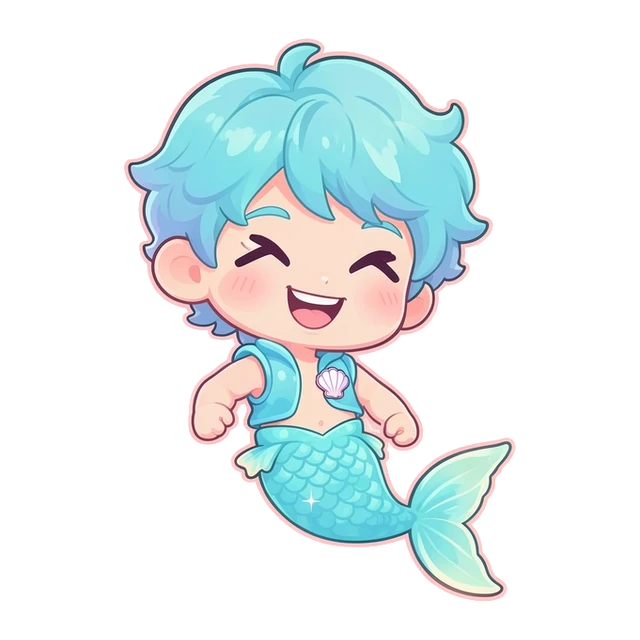
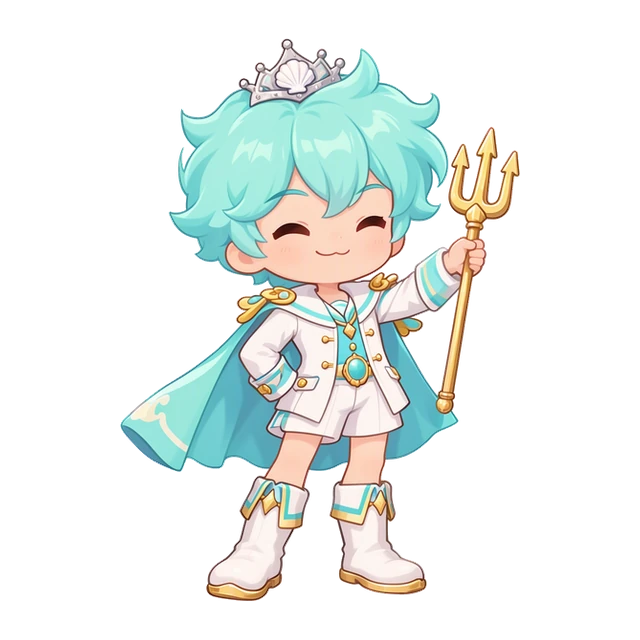
プリンス版：カイ（うみの おうじ）の 絵を 差し替え
- 人魚の しっぽ・はだかの 上半身を やめ、足の ある 立ち絵に（セーラー風の 白い 上着・水色の マント・貝の ティアラ・金の トライデント）
- 喜ぶ：もとの 絵（目を とじた 笑顔）を そのまま。ふつう・困った：その 絵を もとに flux-klein で 表情だけ 変えた
- process.py：うで・トライデント・マントに かこまれた すきまの 白を、カイの 3まいだけ 場所を きめて 抜く（HOLE_BOXES）
- moss_prince.py：カイは もとの 絵（source）から 作る ように

diff --git a/tools/art/moss_prince.py b/tools/art/moss_prince.py
@@ -22,6 +22,7 @@
   そのあと  tools/art/.venv/bin/python tools/art/process.py chars
     python3 tools/art/moss_prince.py chars                   # 9 枚(ある 絵は とばす)
     python3 tools/art/moss_prince.py chars witch_idle        # その 1 枚だけ 作りなおす(idle を かえたら happy・oops も)
+    python3 tools/art/moss_prince.py chars mermaid_happy     # カイ：もとの 絵(source)を happy に し、idle・oops を 表情の 編集で 作る
 
   妖精：{mint, ramune, poppy, peta} → art-raw/fairy/fairy-{id}_prince.png(1024px)
   元の 絵(~/moss-mcp/outputs/20261120_001〜004)の さいごの プロンプトと seed に HEROIC と マントか たてを 1つ たす(顔は 同じ)。
@@ -107,10 +108,13 @@ CHARS = {
         "keep": "lavender hair, wizard hat, robe, cape and staff",
     },
     "mermaid": {
-        "seed": 8202,
-        "subject": ("A cute chibi little merman boy with short wavy aqua blue hair and a small seashell badge on his chest, wearing a turquoise vest, "
-                    "with a turquoise mint fish tail. Big round plum-colored eyes, pink cheeks. Full body including the whole tail, facing front"),
-        "keep": "aqua hair, seashell badge, turquoise vest and turquoise mint tail",
+        # 2026-11-21 差し替え：人魚の しっぽ・はだかの 上半身を やめ、足の ある 立ち絵に。
+        # 元の 絵は ~/moss-mcp/outputs/20261120_005.png（目を とじた 笑顔）→ そのまま happy に つかい、
+        # idle・oops は その 絵を もとに flux-klein で 表情だけ かえる（generate は しない）
+        "source": "~/moss-mcp/outputs/20261120_005.png",
+        "source_mood": "happy",
+        "keep": ("fluffy aqua hair, silver seashell tiara, white sailor-style jacket with gold buttons, turquoise cape, "
+                 "white shorts, white boots, gold trident, hand on hip, big round plum-colored eyes"),
     },
     "princess": {
         "seed": 8303,
@@ -120,6 +124,9 @@ CHARS = {
         "keep": "blonde hair, gold crown, white prince jacket and pink cape",
     },
 }
+IDLE = ("Keep the character, {keep}, pose, outline style and background exactly unchanged. Change only the facial expression: "
+        "open both eyes into big round plum-colored eyes with determined slightly sharp eyebrows, and a confident closed-mouth smile. "
+        "No sweat drops, no tears, no water drops anywhere. Keep the pink cheeks.")
 HAPPY = ("Keep the character, {keep}, pose, outline style and background exactly unchanged. Change only the facial expression: "
          "make both eyes into happy closed upturned arcs (like ^ ^), and make the mouth a wide open smile. "
          "No sweat drops, no tears, no water drops anywhere. Keep the pink cheeks.")
@@ -158,10 +165,20 @@ def char_idle(api, cid, soft):
     print(f"ok   {out} seed={seed} {time.time() - t0:.0f}s", flush=True)
 
 
+def char_source(cid, mood):
+    """もとの 絵(CHARS[cid]["source"])を そのまま その 表情に つかう"""
+    out, src = f"{cid}_{mood}_prince", os.path.expanduser(CHARS[cid]["source"])
+    buf = io.BytesIO(); Image.open(src).convert("RGB").save(buf, "PNG")
+    G.save_raw(f"chars/{out}", buf.getvalue(), 640)
+    log_char(out, {"mode": "source", "source": CHARS[cid]["source"]})
+    print(f"ok   {out} (もとの 絵)", flush=True)
+
+
 def char_edit(api, cid, mood):
     t0, out = time.time(), f"{cid}_{mood}_prince"
-    prompt = (HAPPY if mood == "happy" else OOPS).format(keep=CHARS[cid]["keep"])
-    source = G.ORIG / "chars" / f"{cid}_idle_prince.png"
+    prompt = {"idle": IDLE, "happy": HAPPY, "oops": OOPS}[mood].format(keep=CHARS[cid]["keep"])
+    base = CHARS[cid].get("source_mood", "idle")
+    source = G.ORIG / "chars" / f"{cid}_{base}_prince.png"
     conv = api.call("POST", "/api/images/conversations")["conversation_id"]
     buf = io.BytesIO(); Image.open(source).convert("RGB").save(buf, "PNG")
     image = api.call("POST", f"/api/images/attachments?conversation_id={conv}", body=buf.getvalue(), content_type="image/png")
@@ -169,7 +186,7 @@ def char_edit(api, cid, mood):
         "prompt": prompt, "kind": "image", "backend": "flux-klein", "prompt_mode": "direct",
         "conversation_id": conv, "reference_image_id": image["id"], "preview_only": False})
     G.save_raw(f"chars/{out}", api.result_png(job["job_id"]), 640)
-    log_char(out, {"mode": "edit", "source": f"{cid}_idle_prince", "prompt": prompt, "job": job["job_id"], "sec": round(time.time() - t0, 1)})
+    log_char(out, {"mode": "edit", "source": f"{cid}_{base}_prince", "prompt": prompt, "job": job["job_id"], "sec": round(time.time() - t0, 1)})
     print(f"ok   {out} {time.time() - t0:.0f}s", flush=True)
 
 
@@ -181,9 +198,12 @@ def chars(args):
     if named:
         for n in named:
             cid, mood = n.split("_")
-            todo += [(cid, "idle"), (cid, "happy"), (cid, "oops")] if mood == "idle" else [(cid, mood)]
+            first = CHARS[cid].get("source_mood", "idle")
+            rest = [m for m in ("idle", "happy", "oops") if m != first]
+            todo += [(cid, first)] + [(cid, m) for m in rest] if mood == first else [(cid, mood)]
     else:
-        todo = [(c, "idle") for c in CHARS] + [(c, m) for m in ("happy", "oops") for c in CHARS]   # idle → 表情（MOSS と Klein の 入れかえ 1かい）
+        first = {c: CHARS[c].get("source_mood", "idle") for c in CHARS}
+        todo = [(c, first[c]) for c in CHARS] + [(c, m) for m in ("idle", "happy", "oops") for c in CHARS if m != first[c]]   # idle → 表情（MOSS と Klein の 入れかえ 1かい）
     for cid, mood in todo:
         assert cid in CHARS and mood in ("idle", "happy", "oops"), (cid, mood)
         out = f"{cid}_{mood}_prince"
@@ -191,7 +211,12 @@ def chars(args):
             print(f"skip {out} (ある)")
             continue
         try:
-            char_idle(api, cid, soft) if mood == "idle" else char_edit(api, cid, mood)
+            if mood == CHARS[cid].get("source_mood"):
+                char_source(cid, mood)
+            elif mood == "idle" and "source" not in CHARS[cid]:
+                char_idle(api, cid, soft)
+            else:
+                char_edit(api, cid, mood)
         except DailyLimit as err:
             sys.exit(f"上限に 当たったので 止めます({out} の まえ): {err}")
 

diff --git a/tools/art/process.py b/tools/art/process.py
@@ -30,6 +30,9 @@ BG_NEAR = 26.0      # この距離までは背景とみなす(囲まれた穴は
 # フォルダごとの BG_NEAR。ドラゴン(MOSS-Image)は 足もとに うすい灰色の かげが 出るので 広めに 抜く
 # (太い りんかく線で 止まるので、白っぽい ひかりドラゴンの 体は のこる)
 BG_NEAR_BY_FOLDER = {"dragons": 60.0}
+# キャラは 囲まれた すきまを ふだんは 抜かない(白い リボンなどが 消える)。そこで 絵ごとに 場所(わりあい：上, 下, 左, 右)を きめて、
+# その 中から 背景色に ごく近い 面だけを 抜く。カイ(プリンス版)：うでと トライデントと マントの あいだ
+HOLE_BOXES = {f"chars/mermaid_{m}_prince": (0.40, 0.62, 0.60, 0.74) for m in ("idle", "happy", "oops")}
 EDGE_FULL = 70.0    # ふち 2px で、これ以上はなれた色は完全に不透明
 MARGIN = 0.06       # 仕上がりの余白(1 辺あたり)
 WEBP_QUALITY = 90
@@ -64,7 +67,7 @@ def fill_touching(candidate, seed):
         region = bigger
 
 
-def cut_out(rgb, holes=True, bg_near=BG_NEAR):
+def cut_out(rgb, holes=True, bg_near=BG_NEAR, hole_box=None):
     """(RGBA の配列, 問題の一覧) を返す。"""
     pixels = rgb.astype(np.float32)
     h, w, _ = pixels.shape
@@ -80,6 +83,13 @@ def cut_out(rgb, holes=True, bg_near=BG_NEAR):
         tight = (distance < BG_NEAR / 2) & ~background
         core = ~grow(~tight, max(2, round(min(h, w) * 0.012)))
         background |= fill_touching(tight, core)
+    elif hole_box:
+        top, bottom, left, right = hole_box
+        tight = (distance < BG_NEAR / 2) & ~background
+        core = ~grow(~tight, max(2, round(min(h, w) * 0.012)))
+        box = np.zeros_like(tight)
+        box[int(top * h):int(bottom * h), int(left * w):int(right * w)] = True
+        background |= fill_touching(tight, core & box)
     nearest = np.where(background, 0.0, distance)  # 背景でないところの、背景色との距離
 
     # 色つき外わく+白い角丸タイル: ふちの色が白でなく、残りが画面のほとんどを占めるとき、
@@ -184,7 +194,8 @@ def main():
             except OSError:  # generate.py が書いている途中の絵は、次の回にまわす
                 print(f"skip {key} (読めない)")
                 continue
-            rgba, problems, tile = cut_out(rgb, holes=(folder == "items"), bg_near=BG_NEAR_BY_FOLDER.get(folder, BG_NEAR))
+            rgba, problems, tile = cut_out(rgb, holes=(folder == "items"), bg_near=BG_NEAR_BY_FOLDER.get(folder, BG_NEAR),
+                                           hole_box=HOLE_BOXES.get(key))
             image = square(rgba, size)
             image.save(OUT / folder / f"{source.stem}.webp", "WEBP", quality=WEBP_QUALITY, method=6)
             wanted.add(f"{source.stem}.webp")
